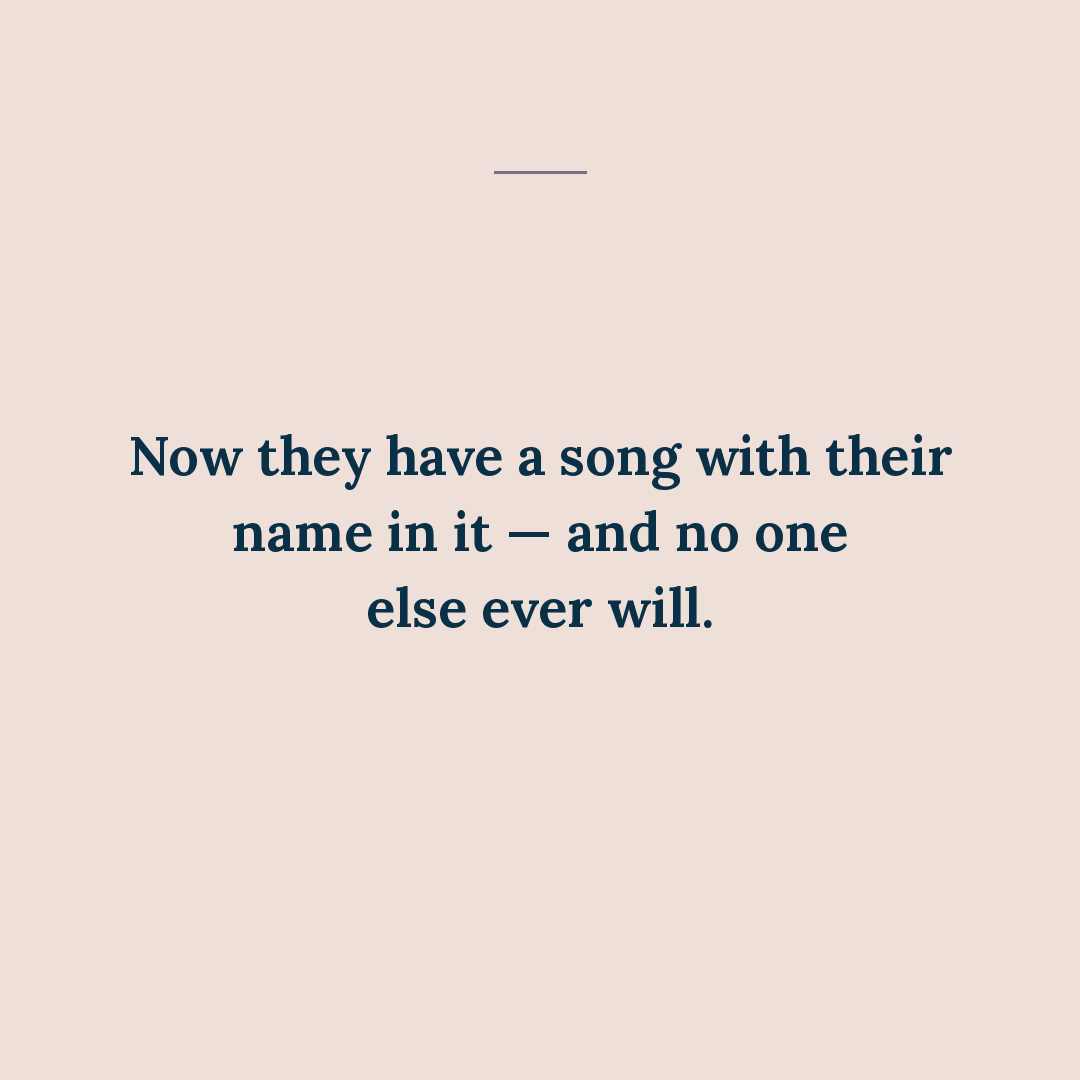
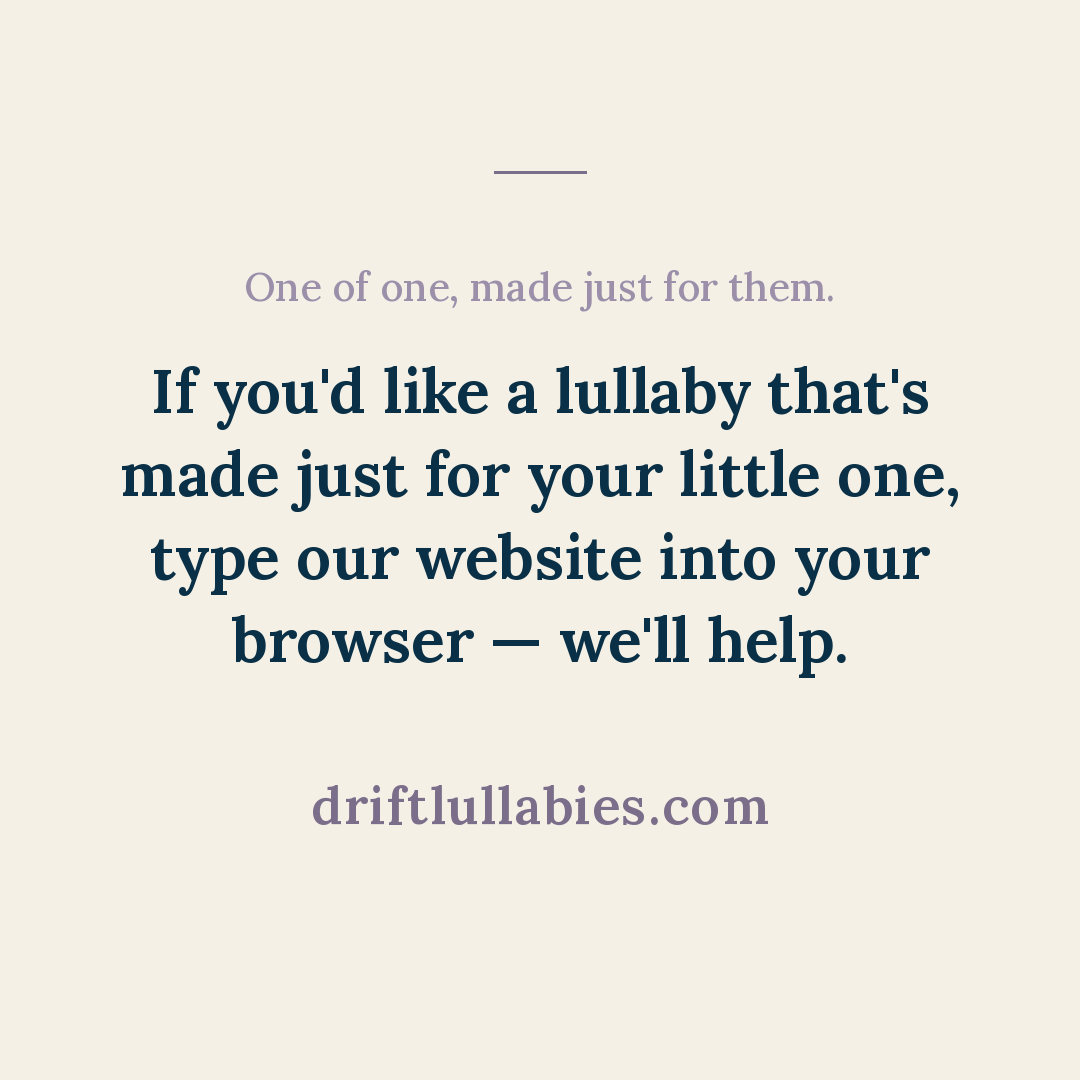
Add pov-08-no-one-else-has-it (POV 08 - No One Else Has It)

Changed region(s): [[0.0917, 0.3361, 0.8861, 0.6417], [0.2139, 0.2444, 0.7639, 0.3056], [0.275, 0.7333, 0.7333, 0.7639]]

diff --git a/posts/pov-08-no-one-else-has-it/slides.md b/posts/pov-08-no-one-else-has-it/slides.md
@@ -1,8 +1,8 @@
 # POV Lullaby — 08 - No One Else Has It
 
 Format: carousel · **bg BLUSH `#EFDFD9`** · lane **POV Lullaby** (soft-sell showcase) · 6 slides
-CTA: **Save** (no website, no URL) · Sound: **Brand lane — the Drift lullaby as original audio** · 🤍 in caption only
-Angle: uniqueness / one-of-one — flagship body, bookend closer
+CTA: **Website (LOCKED card)** · Sound: **Brand lane — the Drift lullaby as original audio** · 🤍 in caption only
+Angle: uniqueness / one-of-one — flagship body
 
 ## Cover
 hook: POV: no one else in the world has this lullaby.
@@ -14,7 +14,9 @@ subline (lavender-light, below hook): It started with 5 little questions…
 4 — …your dreams for their future…
 5 — …and the place that feels like home
 
-## Closer
-Now they have a song with their name in it — and no one else ever will.
+## Closer (website — LOCKED card)
+render_cta default main + url. Eyebrow only: "One of one, made just for them."
 
-Rendered slide-1..slide-6 via drift_slides.py (weight 650, ds.BG_BLUSH). Caption pending Ben's review; not yet pushed/queued.
+REVISED 2026-08-16 per Ben's standing instruction: POV closer changes from a plain Save/no-URL bookend
+line to the same LOCKED website CTA card used on lullaby-subject posts (render_cta default ask + url,
+eyebrow customized per post only). This is now the template for ALL FUTURE POV posts.
